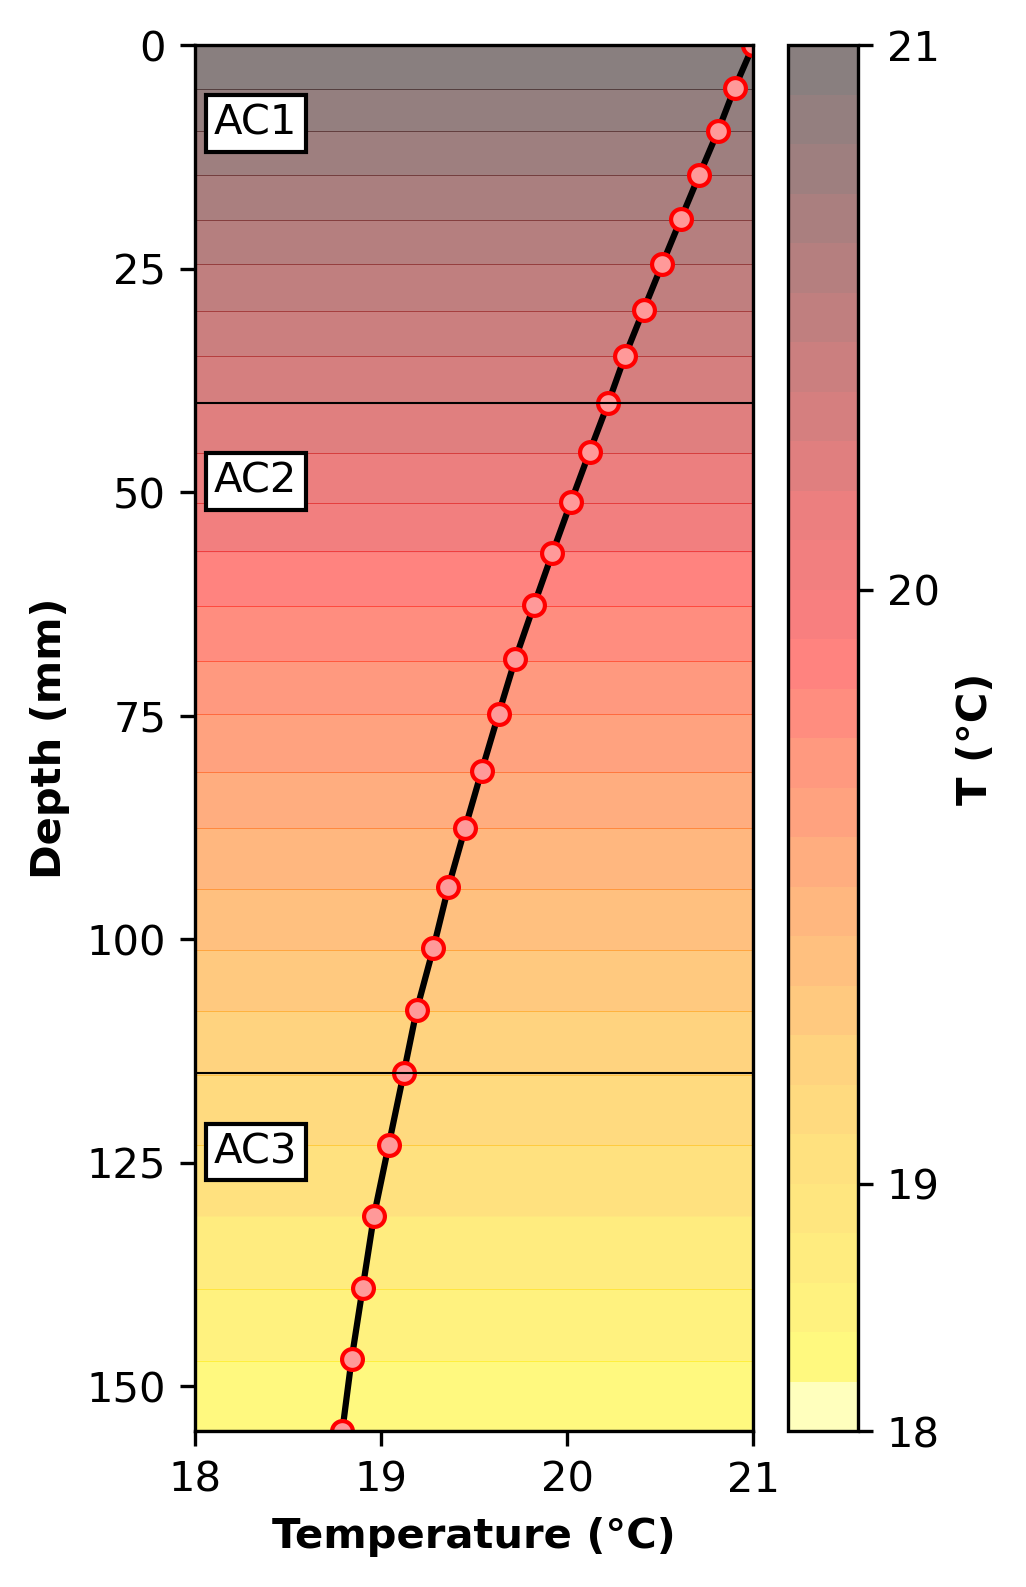
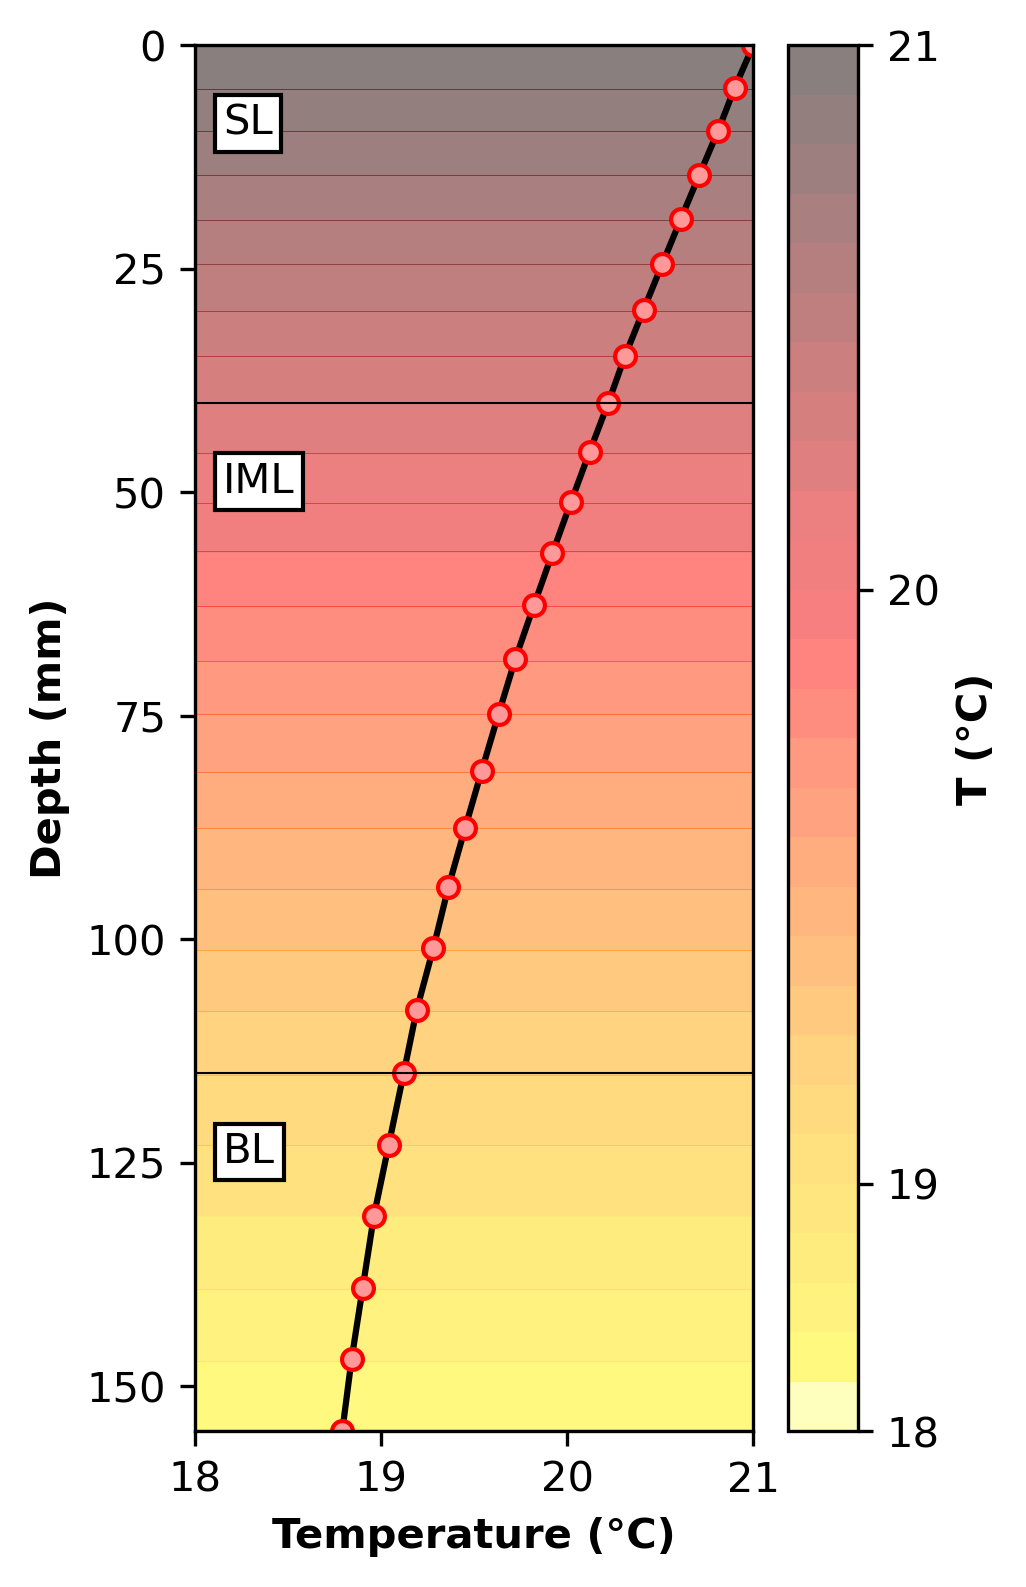
Refactor temperature gradient calculation and plotting code

Changed region(s): [[0.1871, 0.2779, 0.3119, 0.3396], [0.1871, 0.7101, 0.3119, 0.741], [0.1871, 0.0618, 0.3119, 0.0926]]

diff --git a/Temperature Gradient/T-Gradient.py b/Temperature Gradient/T-Gradient.py
@@ -15,6 +15,7 @@
 
 import numpy as np
 import matplotlib.pyplot as plt
+import math
 
 ##################################################
 ########            User Inputs           ######## 
@@ -24,14 +25,24 @@ import matplotlib.pyplot as plt
 aa1 = 0.0021   # ThermaL Conductivity, AC Layer [Kcal/hmC]
 aa2 = 0.0030   # ThermaL Conductivity, Base Layer [Kcal/hmC]
 ll1 = 1.38     # Thermal Diffusivity, AC Layer [mm^2/s]
-ll2 = 1.00     # Thermal Diffusivity, Base Layer [mm^2/s]
-H = 0.155      # Thickness of AC Layer [m]
+ll2 = 1.00     # Thermal Diffusivity, Base Layer [mm^2/s
 c = 18         # Temperature at the surface [C]  
-Tmax = 21.00    # Maximum Temperature at the bottom [C]
-Tmin = 15.00
-t = 6
+Tmax = 21.00   # Maximum Temperature at the bottom [C]
+Tmin = 15.00   # Minimum Temperature at the bottom [C]
+t = 6         # Shape Parameter
 
-# Functions U, FFs, Fs as provided in the user's MATLAB code
+# AC Structure
+Labels = ['SL', 'IML', 'BL']
+MyThicks = [40, 75, 40]    # Thickness of each layer [mm]
+NElem = [8, 12, 5]         # Number of elements in each layer
+Bias = [1.10, 1.30, 1.01]  # Biasing factor for each layer
+
+H = sum(MyThicks)/1000      
+
+##################################################
+########    Functions and Parameters      ######## 
+##################################################
+
 def U(z, s, t):
     r1 = np.sqrt(s / aa1)
     r2 = np.sqrt(s / aa2)
@@ -47,8 +58,7 @@ def FFs(p, z, t):
 def Fs(s, t):
     return (Tmax + Tmin) / 2 / s + 6 * np.pi * (Tmax - Tmin) / (np.pi**2 + 144 * s**2)
 
-# Translating the main MATLAB script
-# Defining parameters for the quadrature formula
+# Parameters of the the quadrature formula
 Pj = np.array([128.3767707781087 + 1j * 16.66062584162301,
                128.3767707781087 - 1j * 16.66062584162301,
                122.2613148416215 + 1j * 50.12719263676864,
@@ -72,52 +82,40 @@ Wj = np.array([-8684.606112670226 + 1j * 154574.2053305275,
                -103.4901907062327 - 1j * 41.10935881231860])/10
 
 ##################################################
-########          Vertical Mesh           ######## 
+########            Calculations          ######## 
 ##################################################
 
 # Layer 1
-NElem = 8
-Thick = 40
-Bias = 1.10
-
-Zn = np.zeros(NElem + 1)
-Z = np.zeros(NElem + 1)
-Zn[1] = Thick * (Bias ** (1 / (NElem - 1)) - 1) / (Bias ** (NElem / (NElem - 1)) - 1)
+Zn = np.zeros(NElem[0] + 1)
+Z = np.zeros(NElem[0] + 1)
+Zn[1] = MyThicks[0] * (Bias[0] ** (1 / (NElem[0] - 1)) - 1) / (Bias[0] ** (NElem[0]/ (NElem[0] - 1)) - 1)
 Z[1] = Zn[1] / 1000
 
-for i in range(2, NElem + 1):
-    Zn[i] = Zn[i - 1] * Bias ** (1 / (NElem - 1))
+for i in range(2, NElem[0] + 1):
+    Zn[i] = Zn[i - 1] * Bias[0] ** (1 / (NElem[0] - 1))
     Z[i] = np.sum(Zn[:i + 1]) / 1000
 
-# Layer 2
-NElem2 = 12
-Thick2 = 75
-Bias2 = 1.30
+if len(MyThicks) > 1:
+    # Layer 2
+    Zn = np.pad(Zn, (0, NElem[1]), 'constant')  # Extend the Zn array for Layer 2
+    Z = np.pad(Z, (0, NElem[1]), 'constant')  # Extend the Z array for Layer 2
+    Zn[NElem[0] + 1] = MyThicks[1] * (Bias[1] ** (1 / (NElem[1] - 1)) - 1) / (Bias[1] ** (NElem[1] / (NElem[1] - 1)) - 1)
+    Z[NElem[0] + 1] =Z [NElem[0]] + Zn[NElem[0] + 1]/1000
 
-Zn = np.pad(Zn, (0, NElem2), 'constant')  # Extend the Zn array for Layer 2
-Z = np.pad(Z, (0, NElem2), 'constant')  # Extend the Z array for Layer 2
-Zn[NElem + 1] = Thick2 * (Bias2 ** (1 / (NElem2 - 1)) - 1) / (Bias2 ** (NElem2 / (NElem2 - 1)) - 1)
-Z[NElem + 1] =Z [NElem] + Zn[NElem + 1]/1000
+    for i in range(NElem[0] + 2, NElem[0] + NElem[1] + 1):
+        Zn[i] = Zn[i - 1] * Bias[1] ** (1 / (NElem[1] - 1))
+        Z[i] = np.sum(Zn[:i + 1]) / 1000
 
-for i in range(NElem + 2, NElem + NElem2 + 1):
-    Zn[i] = Zn[i - 1] * Bias2 ** (1 / (NElem2 - 1))
-    Z[i] = np.sum(Zn[:i + 1]) / 1000
+if len(MyThicks) > 2:
+    # Layer 3
+    Zn = np.pad(Zn, (0, NElem[2]), 'constant')  # Extend the Zn array for Layer 3
+    Z = np.pad(Z, (0, NElem[2]), 'constant')  # Extend the Z array for Layer 3
+    Zn[NElem[0] + NElem[1] + 1] = MyThicks[2] * (Bias[2] ** (1 / (NElem[2] - 1)) - 1) / (Bias[2] ** (NElem[2] / (NElem[2]- 1)) - 1)
+    Z[NElem[0] + NElem[1] + 1] =Z [NElem[0] + NElem[1]] + Zn[NElem[0] + NElem[1] + 1]/1000
 
-# Layer 3
-NElem3 = 5 
-Thick3 = 40;
-Bias3 = 1.01  
-
-Zn = np.pad(Zn, (0, NElem3), 'constant')  # Extend the Zn array for Layer 2
-Z = np.pad(Z, (0, NElem3), 'constant')  # Extend the Z array for Layer 2
-Zn[NElem + NElem2 + 1] = Thick3 * (Bias3 ** (1 / (NElem3 - 1)) - 1) / (Bias3 ** (NElem3 / (NElem3- 1)) - 1)
-Z[NElem + NElem2 + 1] =Z [NElem+NElem2] + Zn[NElem + NElem2+ 1]/1000
-
-for i in range(NElem + NElem2 + 2, NElem + NElem2 + NElem3 + 1):
-    Zn[i] = Zn[i - 1] * Bias3 ** (1 / (NElem3 - 1))
-    Z[i] = np.sum(Zn[:i + 1]) / 1000
-
-Zn, Z  # Displaying the arrays to confirm successful translatio
+    for i in range(NElem[0] + NElem[1] + 2, NElem[0] + NElem[1] + NElem[2] + 1):
+        Zn[i] = Zn[i - 1] * Bias[2] ** (1 / (NElem[2] - 1))
+        Z[i] = np.sum(Zn[:i + 1]) / 1000
 
 # Solving the Integral
 Temp = np.zeros(len(Z))
@@ -135,12 +133,10 @@ for tt in range(len(Z)):
 
 TOC = np.column_stack((1000 * Z, Temp + c))
 
-
-# Put the T values in an array ytemp
+# Put the T values in arrays
 Zcoord = np.zeros(len(Z))
 for i in range(len(Z)):
     Zcoord[i] = round(Z[i]*1000,2)
-
 
 ytemp = np.zeros(len(Z))
 for i in range(len(Z)):
@@ -149,25 +145,24 @@ for i in range(len(Z)):
 print(Zcoord)
 print(ytemp)
 
+##################################################
+########              PLOT               ######## 
+##################################################
+# NOTE! Customize the ticks of X and Y axis according to your needs
 
 # Setting up for contour plot
-temp_range = np.linspace(10, 30, 500)
-depth_range = np.linspace(0, Thick + Thick2 + Thick3, 500)
-Temp_grid, Depth_grid = np.meshgrid(temp_range, depth_range)
-
-# Dummy contour values for demonstration
-# In a real scenario, this should be replaced with actual temperature distribution data
+Temp_grid, Depth_grid = np.meshgrid(np.linspace(10, 30, 500), np.linspace(0, sum(MyThicks), 500))
 Contour_values = np.zeros_like(Temp_grid)
+
 for i in range(len(Zcoord)):
     depth = Zcoord[i]
     temperature = ytemp[i]
     Contour_values[np.where(Depth_grid >= depth)] = temperature
 
-
 # Plotting the results
 plt.figure(figsize=(3,6))
 
-cbar_ticks = np.arange(18, 21.1, 1.00)  # Values from 18 to 21 with a step of 0.25
+cbar_ticks = np.arange(math.floor(min(ytemp)), math.ceil(max(ytemp))+0.01, 1.00)  # Values from 18 to 21 with a step of 0.25
 levels = np.unique(np.concatenate([cbar_ticks, Contour_values.ravel()]))
 
 contourf_plot = plt.contourf(Temp_grid, Depth_grid, Contour_values, levels=levels, alpha=0.5, cmap='hot_r')
@@ -178,26 +173,20 @@ cbar.set_label('T (°C)', fontweight=str('bold'))
 plt.plot(ytemp, Zcoord, "-o", color='k', markersize=5, 
          markeredgecolor='red', markerfacecolor=[1, 0.6, 0.6])
 
-plt.axhline(y=40, color='k', linestyle='-', linewidth='0.5')
-plt.axhline(y=115, color='k', linestyle='-', linewidth='0.5')
-plt.axhline(y=155, color='k', linestyle='-', linewidth='0.5')
-
-plt.text(18.1, 10, 'AC1', bbox=dict(facecolor='white', edgecolor='black', pad=2.0))
-plt.text(18.1, 50, 'AC2', bbox=dict(facecolor='white', edgecolor='black', pad=2.0))
-plt.text(18.1, 125, 'AC3', bbox=dict(facecolor='white', edgecolor='black', pad=2.0))
+for i in range(len(MyThicks)):
+    plt.axhline(y=sum(MyThicks[:i + 1]), color='k', linestyle='-', linewidth='0.5')
+    plt.text(math.floor(min(ytemp))+0.15, sum(MyThicks[:i + 1])-MyThicks[i]+10, Labels[i], bbox=dict(facecolor='white', edgecolor='black', pad=2.0))
 
 plt.ylabel('Depth (mm)', fontweight=str('bold'))
 plt.xlabel('Temperature (°C)', fontweight=str('bold'))
-plt.xlim([18, 21])
-plt.ylim([0, Thick + Thick2 + Thick3])
+plt.xlim([math.floor(min(ytemp)), math.ceil(max(ytemp))])
+plt.ylim([0, sum(MyThicks)])
 
 # Add ticks in X and Y
 plt.xticks([18, 19, 20, 21])
 plt.yticks([0, 25, 50, 75, 100, 125, 150])
-
 plt.gca().invert_yaxis()  # Reversing the Y-axis
-#plt.grid(True, which='both', linestyle='--', linewidth='0.5')
-#plt.minorticks_on()
+
 plt.tight_layout
 plt.savefig('T-Gradient.png', dpi=300, bbox_inches='tight')
 
